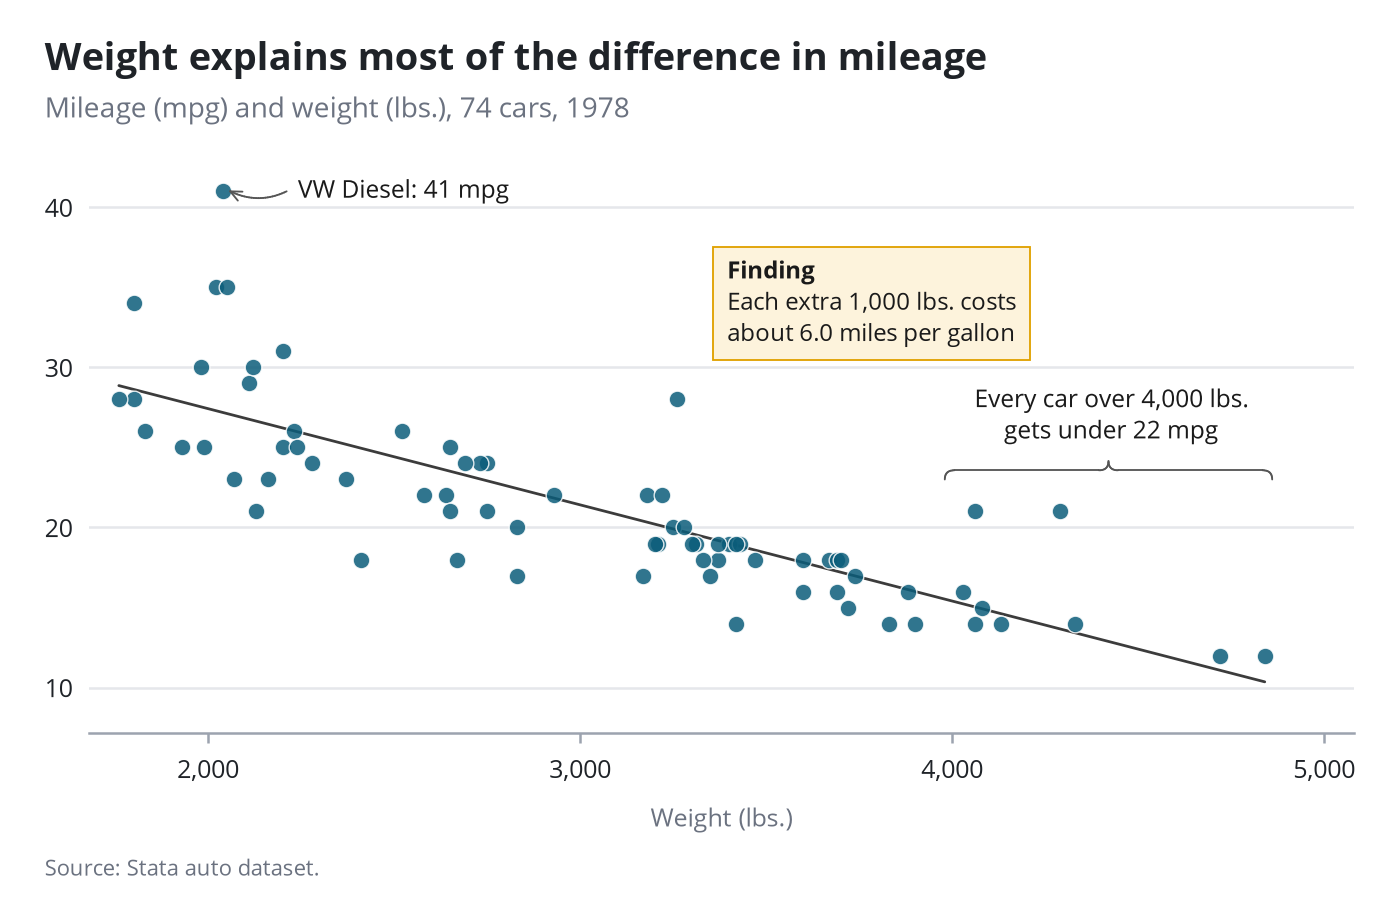
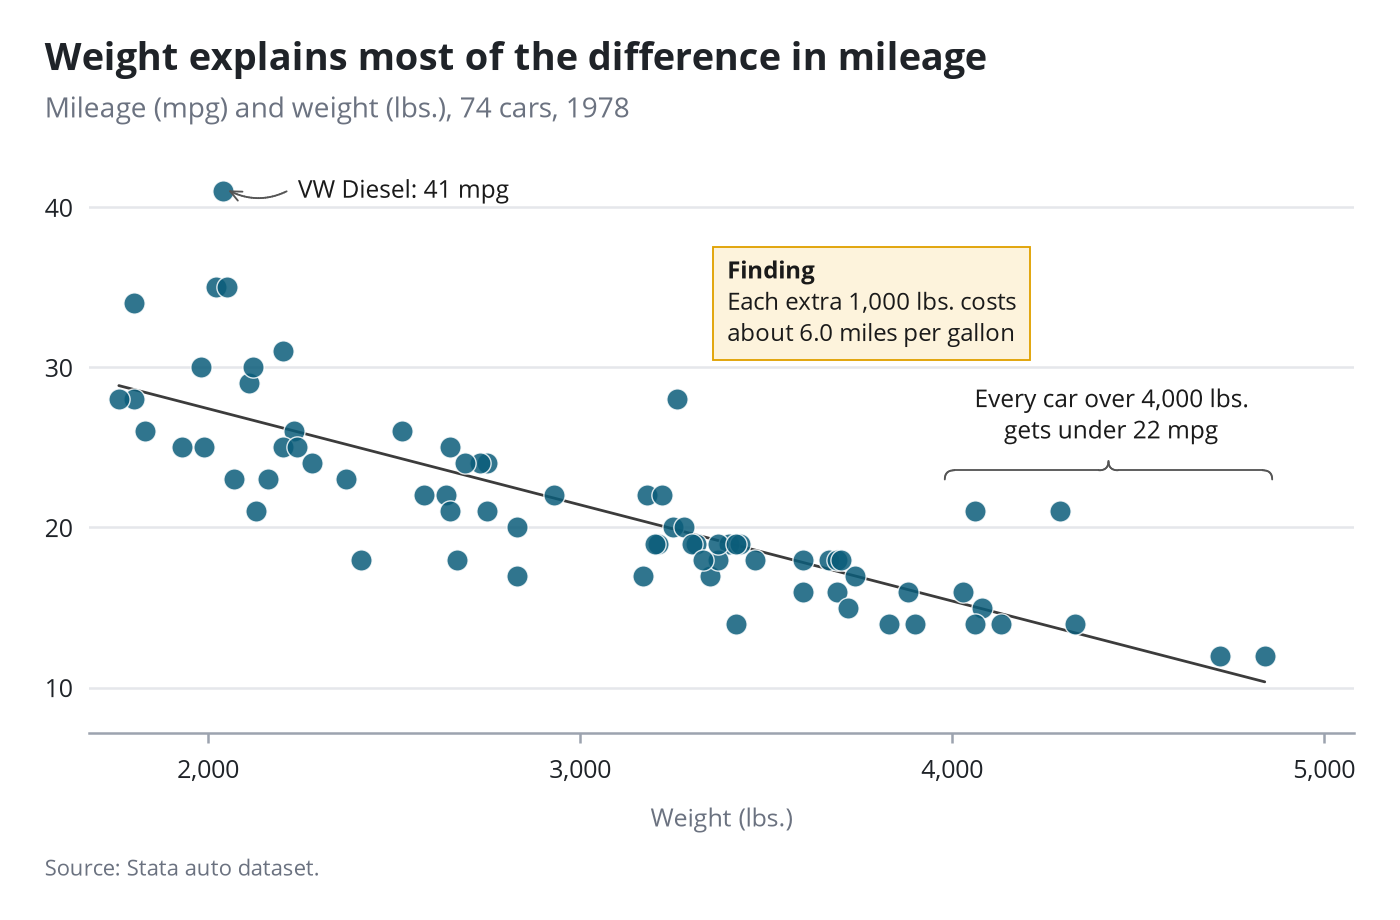
endlabel dotsize sentinel; README bracket and limits; gallery regenerated; README and CHANGELOG benchmark numbers

diff --git a/src/gr2mpl_render.py b/src/gr2mpl_render.py
@@ -20,9 +20,6 @@ import sys
 
 import numpy as np
 
-# Stata draws a marker of size s about 4/pi times wider than s in points; this factor
-# makes matplotlib's marker diameter match Stata's at msscale(1)
-MSTATA = 4.0 / math.pi
 import matplotlib
 
 matplotlib.use("Agg")
@@ -35,6 +32,10 @@ from matplotlib.colors import to_rgba  # noqa: E402
 from matplotlib.transforms import Bbox  # noqa: E402
 from matplotlib.offsetbox import AnnotationBbox, DrawingArea  # noqa: E402
 from matplotlib.patches import FancyBboxPatch, Polygon, Rectangle  # noqa: E402
+
+# Stata draws a marker of size s about 4/pi times wider than s in points; this factor
+# makes matplotlib's marker diameter match Stata's at msscale(1)
+MSTATA = 4.0 / math.pi
 
 # oldest matplotlib the renderer supports: Axes.legend(alignment=) arrived in 3.6
 MIN_MPL = (3, 6)

diff --git a/README.md b/README.md
@@ -62,14 +62,14 @@ In batch mode (`stata -b`) and console Stata there is no Graph window, so `graph
 | `gpolish brace` | A curly brace with a label: mark a confidence interval, a gap or a range. |
 | `gpolish arrow` | A straight or curved arrow; with `note` it builds simple flow charts. |
 | `gpolish ptlabel` | Label chosen scatter points, each in the least crowded of eight positions; crowded labels move out on a leader line. |
-| `gpolish bracket` | A square bracket between two y values, with an optional label. |
+| `gpolish bracket` | A square bracket between two y values, or across two x values, with an optional label. |
 | `gpolish legend` | Colour legend text to match its keys. |
 | `gpolish clear` | Remove everything the layout commands added, and undo `endlabel`'s margin and legend changes. |
 | `gpolish render` | Hand the finished graph to `gr2mpl`. |
 | `gpolish limits` | List what Stata's renderer cannot draw. |
 | `gpolish geom` | Report the drawn geometry (size, plot box, data-to-device transform) in `r()`, for programmers. |
 
-Positions in `at()`, `to()` and `from()`, and bracket's `x()`, `y0()` and `y1()`, may be expressions, so a note on a date axis can be written `to(td(21sep2001) 966)`. An expression may use the results of the previous command, such as `to(1999 r(max))` after `summarize`; `gpolish` leaves `r()` as it found it, except after `gpolish geom` and `gpolish render`. Positions are read on the first x and y axes. On a graph with a second axis, the options `xaxis(#)` and `yaxis(#)` of `callout`, `note`, `arrow`, `brace`, `bracket` and `ptlabel` say which axis a position belongs to.
+Positions in `at()`, `to()` and `from()`, and bracket's `x()`, `y0()`, `y1()`, `y()`, `x0()` and `x1()`, may be expressions, so a note on a date axis can be written `to(td(21sep2001) 966)`. An expression may use the results of the previous command, such as `to(1999 r(max))` after `summarize`; `gpolish` leaves `r()` as it found it, except after `gpolish geom` and `gpolish render`. Positions are read on the first x and y axes. On a graph with a second axis, the options `xaxis(#)` and `yaxis(#)` of `callout`, `note`, `arrow`, `brace`, `bracket` and `ptlabel` say which axis a position belongs to.
 
 Because `gpolish` reads the drawn graph and not your command, it also works on graphs made by other commands that produce twoway graphs, such as `marginsplot`.
 
@@ -113,6 +113,7 @@ Stata's graph renderer cannot draw the following. `gpolish` prints a note for te
 - **A soft halo behind text.** `halo` draws a white box in Stata, which can cover a nearby marker; `gr2mpl` draws a thin outline instead.
 - **Different colours inside one line of text**, and **filled arrow heads**.
 - **Layout commands on non-twoway graphs.** `endlabel`, `callout`, `note`, `arrow`, `brace`, `bracket`, `ptlabel`, `legend`, `geom` and `clear` stop with an error on graphs that are not twoway graphs. Plain `gpolish` (or `gpolish style`) still makes the title bold, and `gpolish render` (gr2mpl) can redraw bar, box, dot, matrix, `by()` and combined graphs.
+- **End labels beside a y axis on an `aspectratio()` graph.** `endlabel` stops with an error before any edit when the graph has `aspectratio()` and a y axis is drawn on the labelled side (`yaxis(2)`, `yscale(alt)`, or `side(left)` with the usual left axis). It cannot make room for the labels there without changing the axis scale.
 
 `gr2mpl` does not draw contour plots or pie charts. It skips a layer on a second x axis or a third y axis, reference lines and `text()` on those axes, and a `by()` graph inside `graph combine`. Each skipped item is named in a note, and skipped layers are also listed in `r(unsupported)`. With two y axes, `gr2mpl` draws each axis on the side Stata used, and `yscale(alt)` puts the y axis on the right. It does not follow `xscale(alt)`: the x axis stays at the bottom. When Stata draws both y axes on one side, as it does with a third y axis, `gr2mpl` draws the second on the other side.
 
@@ -150,9 +151,11 @@ Tested on StataNow 19.5 and Stata 16.1 on macOS. Stata 17 and 18 and Windows are
 <!-- BENCHNUMBERS -->
 The [benchmark](benchmark/README.md) scores `gpolish ptlabel` against Stata's own `mlabel()`, `labrepel`, adjustText (Python) and ggrepel (R) on four real-data scenarios and three synthetic designs (20 test seeds each), with every label measured by the same rule. A label is clean when it overlaps no other label, touches no marker, crosses no fit line and stays inside the plot. Two further columns show ggrepel given every data point and the marker size ("informed ggrepel"), and the current `gpolish` code with the hand-set settings of release 0.6.0.
 
-When a subset of points is labelled (12 of 63 countries, 19 of 74 cars, or 20 of 60 synthetic points), 0.84 to 1.00 of `gpolish`'s labels are clean, against 0.37 to 0.68 for ggrepel at its defaults and 0.63 to 0.86 for informed ggrepel. When every point is labelled, `gpolish` has the highest clean share with every country labelled (0.71, against 0.60 for ggrepel and 0.63 for informed ggrepel) and in both all-labelled synthetic designs (0.99 and 0.91, against 0.95 and 0.86 for ggrepel). With every car labelled it trails both ggrepel columns on clean share: 0.49 of labels clean against 0.57 for ggrepel and 0.51 for informed ggrepel. On labels clean and within 3 ems of their point it is behind ggrepel (0.32 against 0.36) and level with informed ggrepel (0.31). With release 0.6.0's settings, the all-labelled synthetic clean shares are 0.93 and 0.77, below ggrepel's, so the tuning accounts for much of `gpolish`'s lead there.
+When a subset of points is labelled (12 of 63 countries, 19 of 74 cars, or 20 of 60 synthetic points), 0.84 to 1.00 of `gpolish`'s labels are clean, against 0.16 to 0.40 for ggrepel at its defaults and 0.63 to 0.86 for informed ggrepel. When every point is labelled, `gpolish` has the highest clean share with every country labelled (0.75, against 0.57 for ggrepel and 0.67 for informed ggrepel) and in both all-labelled synthetic designs (0.99 and 0.92, against 0.59 and 0.60 for ggrepel and 0.95 and 0.86 for informed ggrepel). With every car labelled it is ahead of ggrepel at its defaults and close to informed ggrepel: 0.59 of its labels are clean, against 0.51 and 0.58, and 0.35 are clean and within 3 ems of their point, against 0.31 and 0.34. With release 0.6.0's settings, the all-labelled synthetic clean shares are 0.96 and 0.83, close to informed ggrepel's, so the tuning accounts for most of `gpolish`'s lead over informed ggrepel there.
 
-By other measures `gpolish` does worse than ggrepel. Its labels are farther from their points in all seven scenarios (mean 0.7 to 2.4 ems, against 0.3 to 2.2), and in five of the seven a larger share of its labels are nearer another point than their own (with every country labelled, 0.51 against 0.40). Leader lines cross other labels for every method that draws them: with every car labelled, 39 of `gpolish`'s 56 leaders cross another label's box, against 34 of ggrepel's 41 and 42 of adjustText's 56. [benchmark/README.md](benchmark/README.md) gives every result, including the row-order, scaling and font-size tests.
+By other measures `gpolish` does worse than ggrepel. Its labels are farther from their points in all seven scenarios (mean 0.7 to 2.4 ems, against 0.3 to 2.3), and in four of the seven a larger share of its labels are nearer another point than their own (with every country labelled, 0.52 against 0.41). Leader lines cross other labels for every method that draws them: with every car labelled, 39 of `gpolish`'s 56 leaders cross another label's box, against 31 of ggrepel's 41 and 40 of adjustText's 56. Much of ggrepel's and adjustText's deficit comes from labels on their own markers: when a label's own marker is not counted, ggrepel's clean share with 30 synthetic points rises from 0.59 to 0.96 and adjustText's from 0.60 to 0.89, against 0.99 for `gpolish`.
+
+Every label box is checked against the drawn text at 600 dpi. That check found that earlier runs measured text at 72 dpi, which made every method's boxes 1 to 2 points too wide and 0.4 points too tall; with the corrected boxes no clean share fell, and adjustText's rose most (by 0.03 to 0.19). [benchmark/README.md](benchmark/README.md) gives every result, including the measurement audit and the row-order, scaling, font-size and marker-distance tests.
 
 `gpolish`'s six placement settings were chosen on separate tuning seeds, not on the scenarios reported. The test data still influenced them: the 0.6.0 starting point was set by hand while looking at test seeds 1 to 6 and three of the real-data scenarios, the tuning objective was revised once after viewing test images, and the method itself was developed with this benchmark in view. [benchmark/README.md](benchmark/README.md#tuning) describes the process.
 

diff --git a/CHANGELOG.md b/CHANGELOG.md
@@ -64,7 +64,10 @@ This release contains gpolish 0.7.0 and gr2mpl 0.6.0. The changes listed under 0
 ### Benchmark
 
 - The benchmark numbers changed. Release 0.6.1 measured the Open Sans labels with `gpolish`'s Helvetica width table in batch runs; `run_stata.do` and `tune.do` now set the svg font to Open Sans, check that `gpolish` used its Open Sans table, and set the recorded font back afterwards. The six placement settings were not tuned again. adjustText now runs a fixed 100 iterations and ggrepel runs with `max.time = Inf`, so repeated runs give identical positions; ggrepel's label and marker sizes were corrected (they were 0.4 percent too large). `labrepel` gets its seed set before each call, because version 1.0 ignores `seed()`.
-- Headline clean shares, release 0.6.1 against this release: `gpolish` with every car labelled 0.34 to 0.49, every country 0.70 to 0.71, 30 of 30 synthetic points 0.98 to 0.99, 60 of 60 synthetic points 0.93 to 0.91; ggrepel with every car labelled 0.59 to 0.57 (every country 0.60, unchanged); adjustText with every car labelled 0.23 to 0.28. The subset scenarios are unchanged for `gpolish` (1.00, 0.84, 0.96).
+- Two measuring errors were fixed, and every method's scores changed with them. Earlier runs centred matplotlib's full line box, descent included, on each ggrepel label's centre, which put every ggrepel box 0.6 points above its baseline; ggrepel's boxes are now built from the baseline it drew. Earlier runs also measured text on a 72 dpi figure, where matplotlib rounds each extent to whole points, so every method's boxes were 1 to 2 points too wide and 0.4 points too tall; `common.Measurer` now lays text out at 40 times that resolution, and `run_adjusttext.py` records each text's anchor and alignment so that `score.py` measures adjustText's boxes the same way. With the corrected boxes no clean share in the main set fell.
+- Headline clean shares in this release: `gpolish` 0.59 with every car labelled, 0.75 with every country, 0.99 with 30 of 30 synthetic points and 0.92 with 60 of 60; ggrepel 0.51, 0.57, 0.59 and 0.60; informed ggrepel 0.58, 0.67, 0.95 and 0.86; adjustText 0.38 with every car labelled. The subset scenarios give `gpolish` 1.00, 0.84 and 0.96. Release 0.6.1's figures (`gpolish` 0.34 with every car labelled; ggrepel 0.59) were measured with both errors and cannot be compared with these.
+- New `audit_ink.py` renders each method's output at 600 dpi and compares the drawn text with the measured boxes (results/ink_audit.md and ink_audit.csv); every method's boxes are within about 0.1 point of its text. `run_ggrepel.R` and `run_adjusttext.py` take `BENCH_PNG_DPI` to write the 600 dpi images, without changing positions. `selftest.py` checks that each box spans the drawn text from end to end.
+- With the corrected boxes (results/marker_sensitivity.md), moving the marker distance from 2.75 to 3.24 points lowers clean shares by 0.04 or less for every method except adjustText (0.03 to 0.25).
 - New columns: ggrepel given every point and the drawn marker size ("informed"), and `gpolish` with release 0.6.0's hand-set settings.
 - New metrics: clean except the label's own marker; leader lines drawn and leaders that cross a label, a marker or another leader; ambiguity split by labels with and without a leader; paired seed-level differences with 95 percent intervals. New scenario sets: 10 random row orders of the real-data scenarios, 150 and 300 points, and other label and marker sizes.
 - `score.py` writes every method's measured label boxes, leader lines, geometry and points, and `score.py --rescore` rebuilds the scores from them alone. New `marker_sensitivity.py`, `selftest.py` and `BENCH_SCENARIOS`; `run_stata.do` checks that it runs the package's own `gpolish`.
@@ -83,7 +86,7 @@ This release contains gpolish 0.7.0 and gr2mpl 0.6.0. The changes listed under 0
 Not released as a separate tag; these changes are part of 0.7.0. The benchmark figures in this entry come from runs that measured the Open Sans labels with the Helvetica width table; 0.7.0 lists the current figures.
 
 - `gpolish ptlabel`'s placement settings (search rings and their spacing, the cost of moving a label away from its
-  point, box height and padding) were chosen on separate tuning scenarios (the hand-set 0.6.0 starting point and the tuning objective were influenced by the test scenarios; see benchmark/README.md); `benchmark/tune.py` reproduces the choice.
+  point, box height and padding) were chosen on separate tuning scenarios (the hand-set 0.6.0 starting point and the tuning objective were influenced by the test scenarios; see benchmark/README.md); the 0.6.1 `benchmark/tune.py` (Helvetica width table) made the choice; the current `tune.py` measures with the Open Sans table and no longer reproduces tuning.csv exactly (see benchmark/README.md, Font history).
   Compared with 0.6.0, the clean share on the real-data benchmark graphs rose from 0.54 to 0.70 with every country
   labelled, stayed at 1.00 for 12 countries, and fell from 0.89 to 0.84 for 19 cars and from 0.47 to 0.34 with every
   car labelled; on the synthetic test designs it rose (for example from 0.68 to 0.93 with 60 points labelled).
